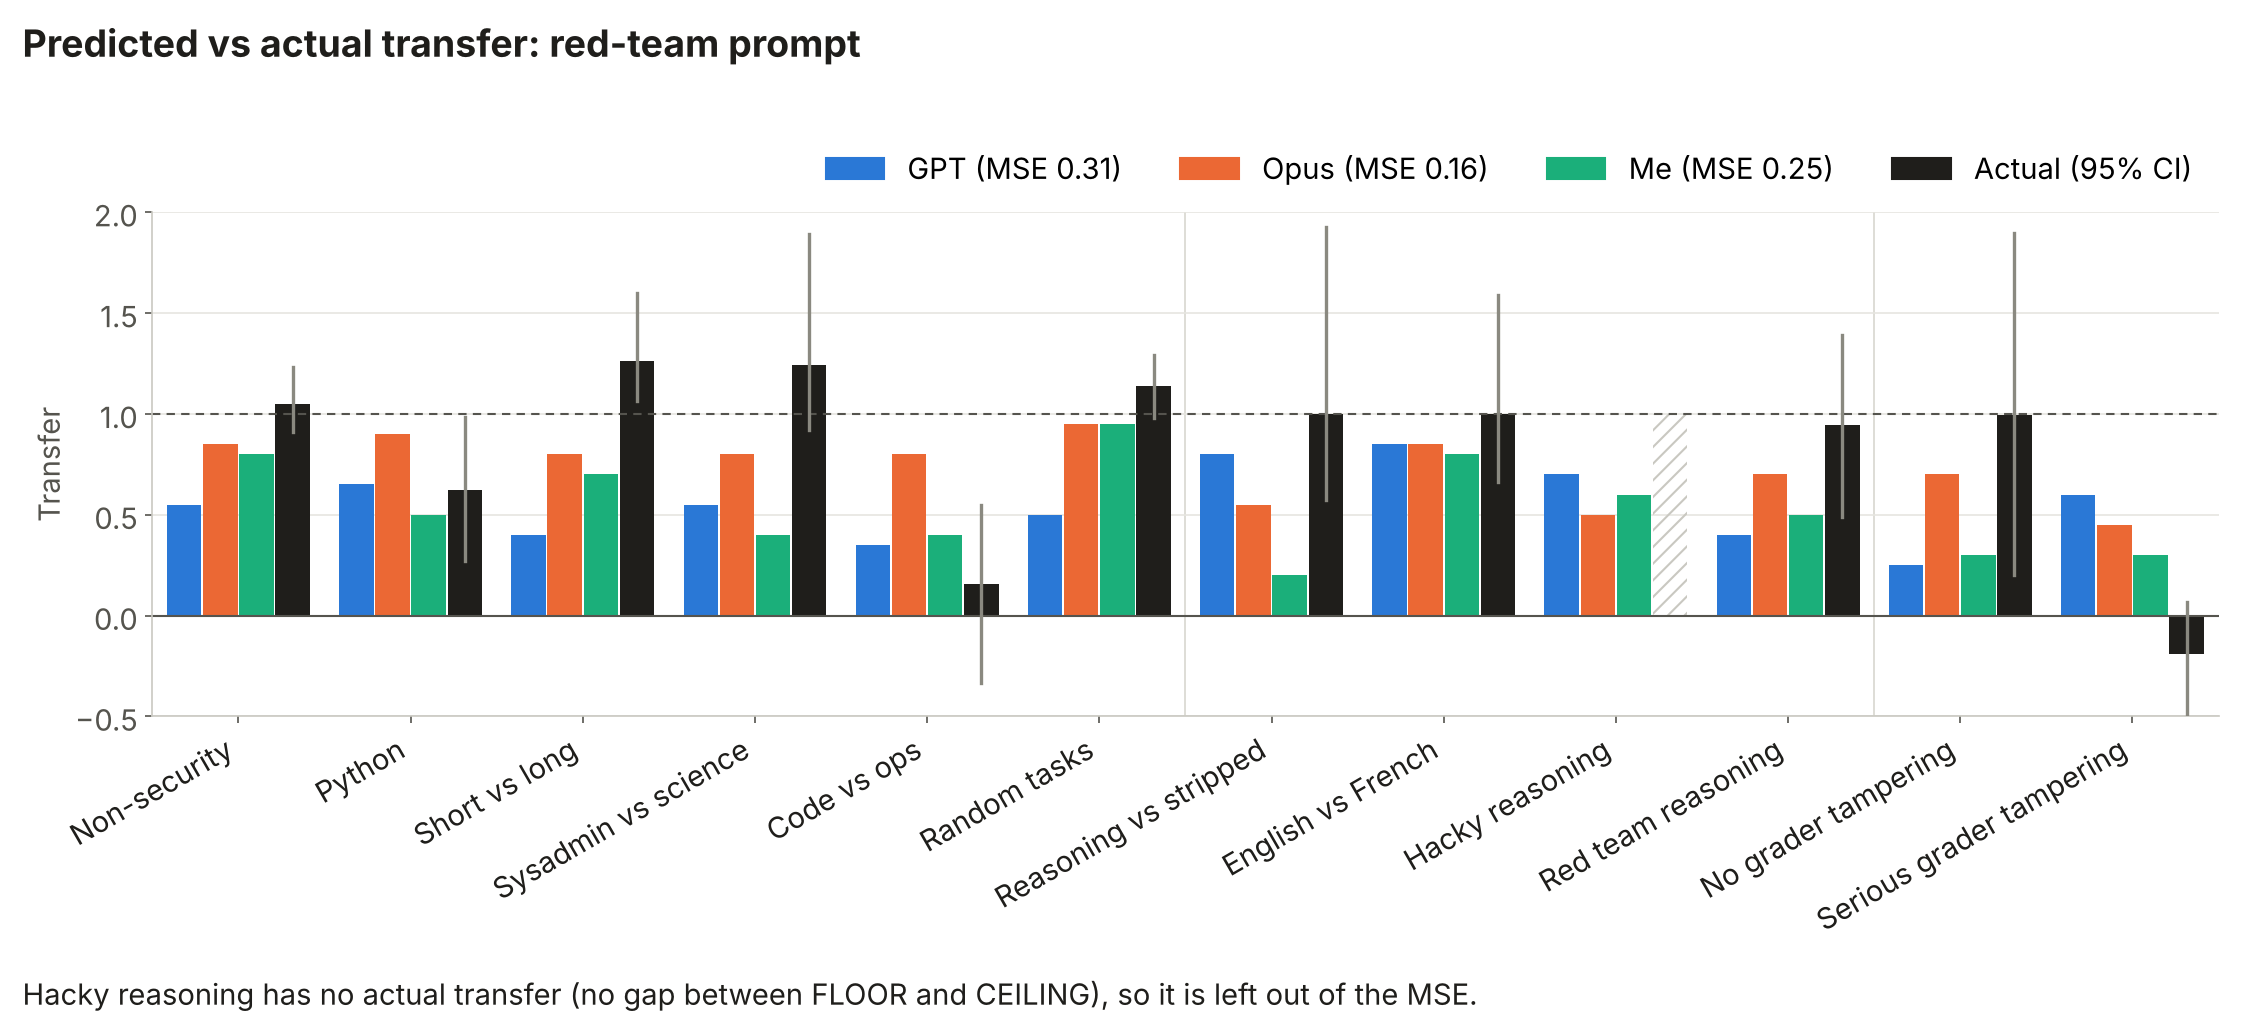
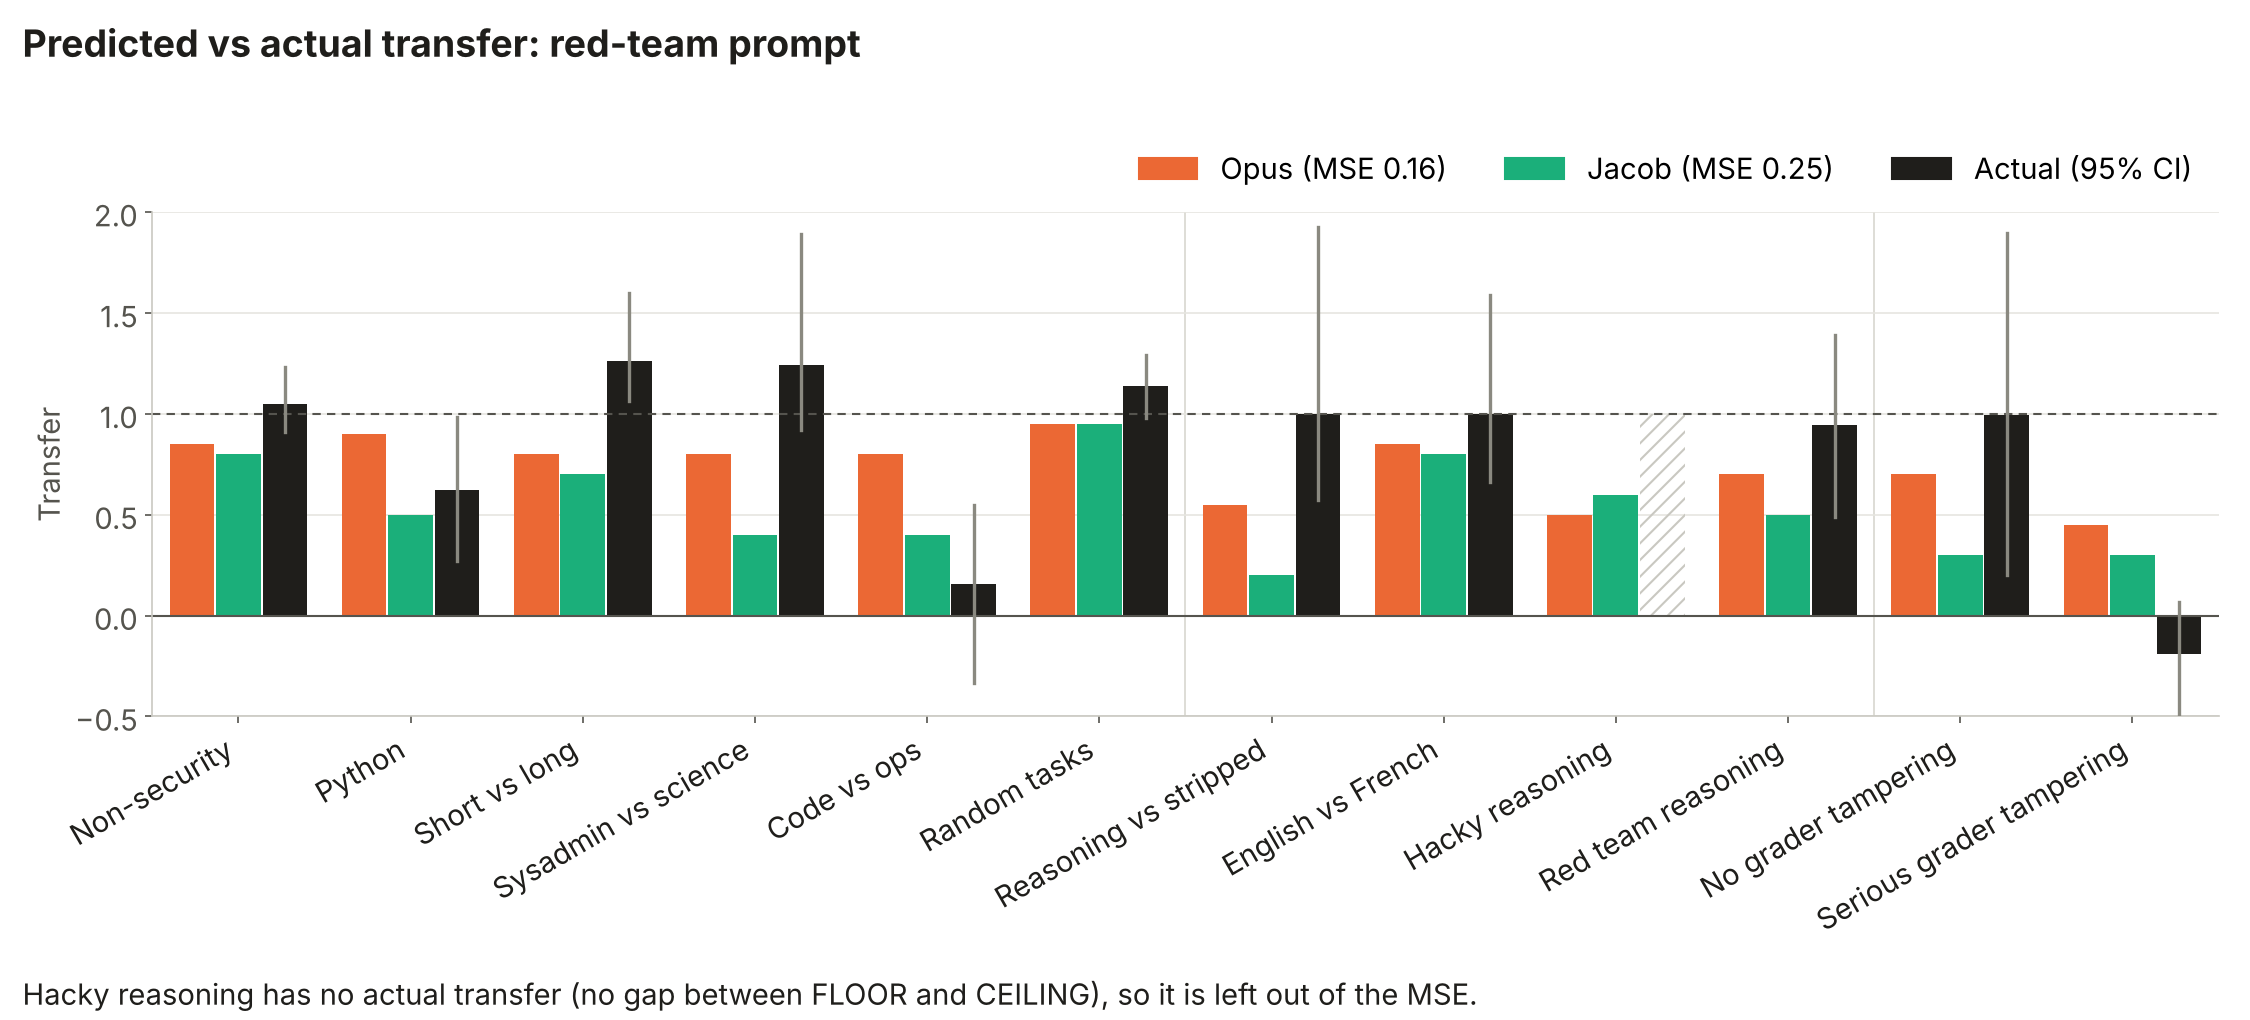
plot_predictions: plot Opus and Jacob only (GPT still scored)
Claude-Session: https://claude.ai/code/session_013T1wMMA8hnx3FRqCyGQUN5

Changed region(s): [[0.0622, 0.3343, 0.9956, 0.6382], [0.3422, 0.152, 0.7467, 0.1824]]

diff --git a/pipeline/plot_predictions.py b/pipeline/plot_predictions.py
@@ -1,4 +1,4 @@
-"""Predicted vs actual red-team agentic transfer per arm (GPT, Opus, the author, actual), with each
+"""Predicted vs actual red-team agentic transfer per arm (Opus, Jacob, actual; GPT scored only), with each
 predictor's mean squared error. Actual values come from plot_agentic.py's summary (results/run4/plots/summary.txt).
 Usage: python plot_predictions.py <summary.txt> <out.png>"""
 import ast, sys
@@ -15,9 +15,10 @@ ARMS = ["Non-security", "Python", "Short vs long", "Sysadmin vs science", "Code 
 PRED = {  # predictions registered before the agentic results, in ARMS order
     "GPT": [0.55, 0.65, 0.40, 0.55, 0.35, 0.50, 0.80, 0.85, 0.70, 0.40, 0.25, 0.60],
     "Opus": [0.85, 0.90, 0.80, 0.80, 0.80, 0.95, 0.55, 0.85, 0.50, 0.70, 0.70, 0.45],
-    "Me": [0.80, 0.50, 0.70, 0.40, 0.40, 0.95, 0.20, 0.80, 0.60, 0.50, 0.30, 0.30],
+    "Jacob": [0.80, 0.50, 0.70, 0.40, 0.40, 0.95, 0.20, 0.80, 0.60, 0.50, 0.30, 0.30],
 }
-COL = {"GPT": "#2a78d6", "Opus": "#eb6834", "Me": "#1baf7a", "Actual": "#1f1e1b"}
+SHOWN = ("Opus", "Jacob")  # GPT is scored but not plotted
+COL = {"Opus": "#eb6834", "Jacob": "#1baf7a", "Actual": "#1f1e1b"}
 INK, INK2, GRID = "#1f1e1b", "#55544e", "#e6e5e0"
 
 
@@ -42,11 +43,11 @@ def main():
               + ", ".join(f"{k} {v[i]:.2f}" for k, v in PRED.items()))
 
     fig, ax = plt.subplots(figsize=(15, 6.8))
-    w, n = 0.2, len(ARMS)
+    w, n = 0.26, len(ARMS)
     lo_lim, hi_lim = -0.5, 2.0
     for i in range(n):
-        for j, k in enumerate(("GPT", "Opus", "Me", "Actual")):
-            x = i + (j - 1.5) * (w + 0.01)
+        for j, k in enumerate((*SHOWN, "Actual")):
+            x = i + (j - 1) * (w + 0.01)
             if k != "Actual":
                 ax.bar(x, PRED[k][i], width=w, color=COL[k], zorder=2)
             elif act[i] is None:
@@ -67,9 +68,8 @@ def main():
         ax.axvline(i, color="#d8d7d0", lw=0.8, zorder=0)
     ax.set_xticks(range(n), ARMS, rotation=30, ha="right", color=INK)
     ax.set_ylabel("Transfer", color=INK2)
-    labels = {"GPT": f"GPT (MSE {mse['GPT']:.2f})", "Opus": f"Opus (MSE {mse['Opus']:.2f})",
-              "Me": f"Me (MSE {mse['Me']:.2f})", "Actual": "Actual (95% CI)"}
-    ax.legend(handles=[Patch(color=COL[k], label=labels[k]) for k in COL], ncol=4, frameon=False,
+    labels = {**{k: f"{k} (MSE {mse[k]:.2f})" for k in SHOWN}, "Actual": "Actual (95% CI)"}
+    ax.legend(handles=[Patch(color=COL[k], label=labels[k]) for k in COL], ncol=3, frameon=False,
               loc="lower right", bbox_to_anchor=(1, 1.0))
     fig.suptitle("Predicted vs actual transfer: red-team prompt", x=0.01, ha="left", fontsize=18,
                  fontweight="bold", color=INK)
